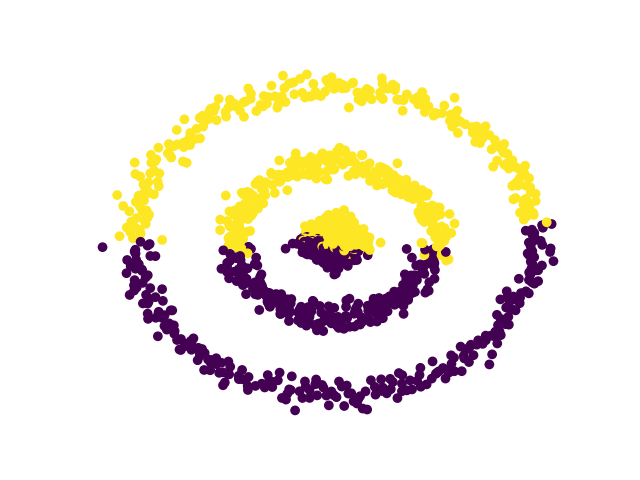
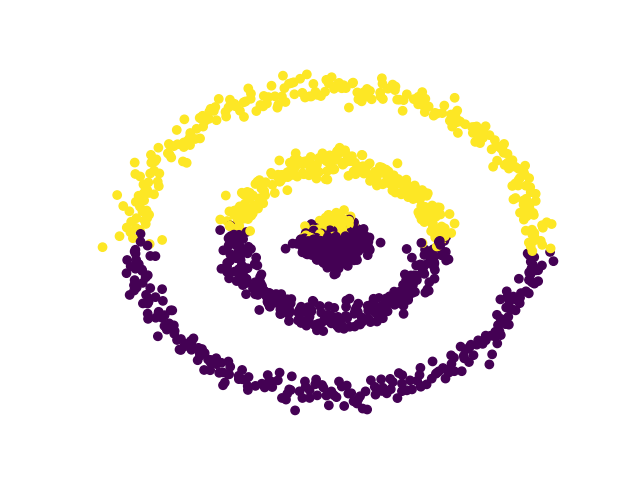
bug fix (copy)

diff --git a/wse.py b/wse.py
@@ -10,7 +10,6 @@ def wse(L, Wt, V, groups, maxiter=1000, tol=1e-5, eta=0.01, gamma=0.01, lam=0.3,
     a0, t = 1., 1
     obj = np.zeros(maxiter)
     n = Wt.shape[0]
-    Ct = {}
     is_convergence = False
     G = np.unique(groups)
     a_prev = a0
@@ -31,13 +30,11 @@ def wse(L, Wt, V, groups, maxiter=1000, tol=1e-5, eta=0.01, gamma=0.01, lam=0.3,
         if t > 2:
             if np.abs(obj[t] - obj[t-1]) < tol:
                 print("converged")
-                kmeans.fit(Wt)
-                Ct[t] = kmeans.labels_
                 is_convergence = True
                 break
             elif obj[t] > obj[t-1]:
-                print(t, obj[t], obj[t-1])
                 print("obj started increasing")
+                print("last losses: ", t, obj[t], obj[t - 1])
                 is_convergence = True
                 break
         cost_q = objective_QL(Wt, V, L, groups, lam, eta)
@@ -45,9 +42,10 @@ def wse(L, Wt, V, groups, maxiter=1000, tol=1e-5, eta=0.01, gamma=0.01, lam=0.3,
         if obj[t] > cost_q:
             eta = gamma * eta
 
-        W_prev = Wt
+        W_prev = Wt.copy()
 
         V = Wt - eta*(2.*L.dot(Wt))
+
         # update Wt
         if W_update_type == 'standard':
             for i in range(len(G)):
@@ -74,6 +72,7 @@ def wse(L, Wt, V, groups, maxiter=1000, tol=1e-5, eta=0.01, gamma=0.01, lam=0.3,
 
         # sgd
         # Wt = W_prev - gamma * Wt
+        # Wt = linalg.orth(Wt)
 
         # adaptive sgd
         at = 2. / (t + 3.)
@@ -95,15 +94,10 @@ def wse(L, Wt, V, groups, maxiter=1000, tol=1e-5, eta=0.01, gamma=0.01, lam=0.3,
         #     Wt = Wt - gamma * mhat / (np.sqrt(vhat) + eps)
         # Wt = linalg.orth(Wt)
 
-        if (t + 1) % 1 == 0:
+        if (t + 1) % 20 == 0:
             print(t, obj[t], cost_q)
-
-        # get clusters
-        if (t + 1) % 50 == 0:
-            kmeans.fit(Wt)
-            Ct[t] = kmeans.labels_
 
         t += 1
 
-    return obj, Ct, Wt
+    return obj, Wt
 

diff --git a/train_mnist.py b/train_mnist.py
@@ -7,6 +7,7 @@ from utils import perturb_labels
 from wse import wse
 from get_graph import get_graph
 import os
+from sklearn.cluster import KMeans
 
 
 train_images = mnist.train_images()
@@ -34,11 +35,11 @@ y = y[:n]
 
 lam = 0.3413
 eta = 0.1
-gamma = 0.9
+gamma = 0.001
 num_clusters = 2
 
 
-A = get_graph(x, k=10)
+A = get_graph(x, k=20)
 
 degs = A.sum(axis=1)
 D = sparse.spdiags(degs.A.ravel(), 0, A.shape[0], A.shape[1])
@@ -60,20 +61,22 @@ groups = perturb_labels(y, psnr=0.3)
 
 n = L.shape[0]
 W0 = linalg.orth(np.random.random(size=(n, num_clusters)))
-Wt = W0
-V = Wt
+Wt = W0.copy()
+V = Wt.copy()
 
 # run wse
-cost, clusters, W = wse(L=L, Wt=Wt, V=V, maxiter=2000, groups=groups, eta=eta, gamma=gamma, lam=lam, num_clusters=num_clusters, W_update_type='fast')
+cost, W = wse(L=L, Wt=Wt, V=V, maxiter=2000, groups=groups, eta=eta, gamma=gamma, lam=lam, num_clusters=num_clusters, W_update_type='fast')
 
-last_t = list(clusters)[-1]
-clusters = clusters[last_t]
+kmeans = KMeans(n_clusters=num_clusters, n_init='auto')
+kmeans.fit(W)
+clusters = kmeans.labels_
 c = np.unique(clusters)
 for cluster in c:
     savename = "result_mnist/cluster_" + str(cluster)
     os.makedirs(savename, exist_ok=True)
     label = np.argwhere(clusters == cluster)
     label = label[:30]
+    print("x", x.shape)
     cluster_x = x[label, :]
     i = 0
     print("creating images for cluster: " + str(cluster))

diff --git a/train_toy.py b/train_toy.py
@@ -7,6 +7,7 @@ import scipy.linalg as linalg
 from utils import perturb_labels
 from wse import wse
 from get_graph import get_graph
+from sklearn.cluster import KMeans
 
 lam = 0.3413
 eta = 0.1
@@ -44,14 +45,17 @@ groups = perturb_labels(y, psnr=0.3)
 
 n = L.shape[0]
 W0 = linalg.orth(np.random.random(size=(n, num_clusters)))
-Wt = W0
-V = Wt
+Wt = W0.copy()
+V = Wt.copy()
 
 # run wse
-cost, clusters, W = wse(L=L, Wt=Wt, V=V, groups=groups, eta=eta, gamma=gamma, lam=lam, num_clusters=num_clusters, W_update_type='fast')
+cost, W = wse(L=L, Wt=Wt, V=V, groups=groups, eta=eta, gamma=gamma, lam=lam, num_clusters=num_clusters, W_update_type='fast')
 
-last_t = list(clusters)[-1]
-plt.scatter(x[:, 0], x[:, 1], c=clusters[last_t])
+kmeans = KMeans(n_clusters=num_clusters, n_init='auto')
+kmeans.fit(W)
+clusters = kmeans.labels_
+c = np.unique(clusters)
+plt.scatter(x[:, 0], x[:, 1], c=clusters)
 plt.axis('off')
 plt.savefig('result_toy.png')
 plt.show()

diff --git a/train_olivetti_faces.py b/train_olivetti_faces.py
@@ -8,6 +8,7 @@ from utils import perturb_labels
 from wse import wse
 from get_graph import get_graph
 import os
+from sklearn.cluster import KMeans
 
 
 rng = RandomState(0)
@@ -59,14 +60,15 @@ groups = perturb_labels(y, psnr=0.3)
 
 n = L.shape[0]
 W0 = linalg.orth(np.random.random(size=(n, num_clusters)))
-Wt = W0
-V = Wt
+Wt = W0.copy()
+V = Wt.copy()
 
 # run wse
-cost, clusters, W = wse(L=L, Wt=Wt, V=V, maxiter=2000, groups=groups, eta=eta, gamma=gamma, lam=lam, num_clusters=num_clusters, W_update_type='fast')
+cost, W = wse(L=L, Wt=Wt, V=V, maxiter=2000, groups=groups, eta=eta, gamma=gamma, lam=lam, num_clusters=num_clusters, W_update_type='fast')
 
-last_t = list(clusters)[-1]
-clusters = clusters[last_t]
+kmeans = KMeans(n_clusters=num_clusters, n_init='auto')
+kmeans.fit(W)
+clusters = kmeans.labels_
 c = np.unique(clusters)
 for cluster in c:
     savename = "result_olivetti_faces/cluster_" + str(cluster)

diff --git a/get_graph.py b/get_graph.py
@@ -7,7 +7,7 @@ from scipy.sparse import csr_matrix, coo_matrix, lil_matrix
 
 def sim_gaussian(x, sigma):
     inds = x.nonzero()
-    d = np.exp(-x.toarray()**2 / (2 * sigma ** 2))
+    d = np.exp(-(x.A)**2 / (2 * sigma ** 2))
     knndist = coo_matrix((d[inds], inds), shape=(x.shape[0], x.shape[1]))
     return knndist
 
